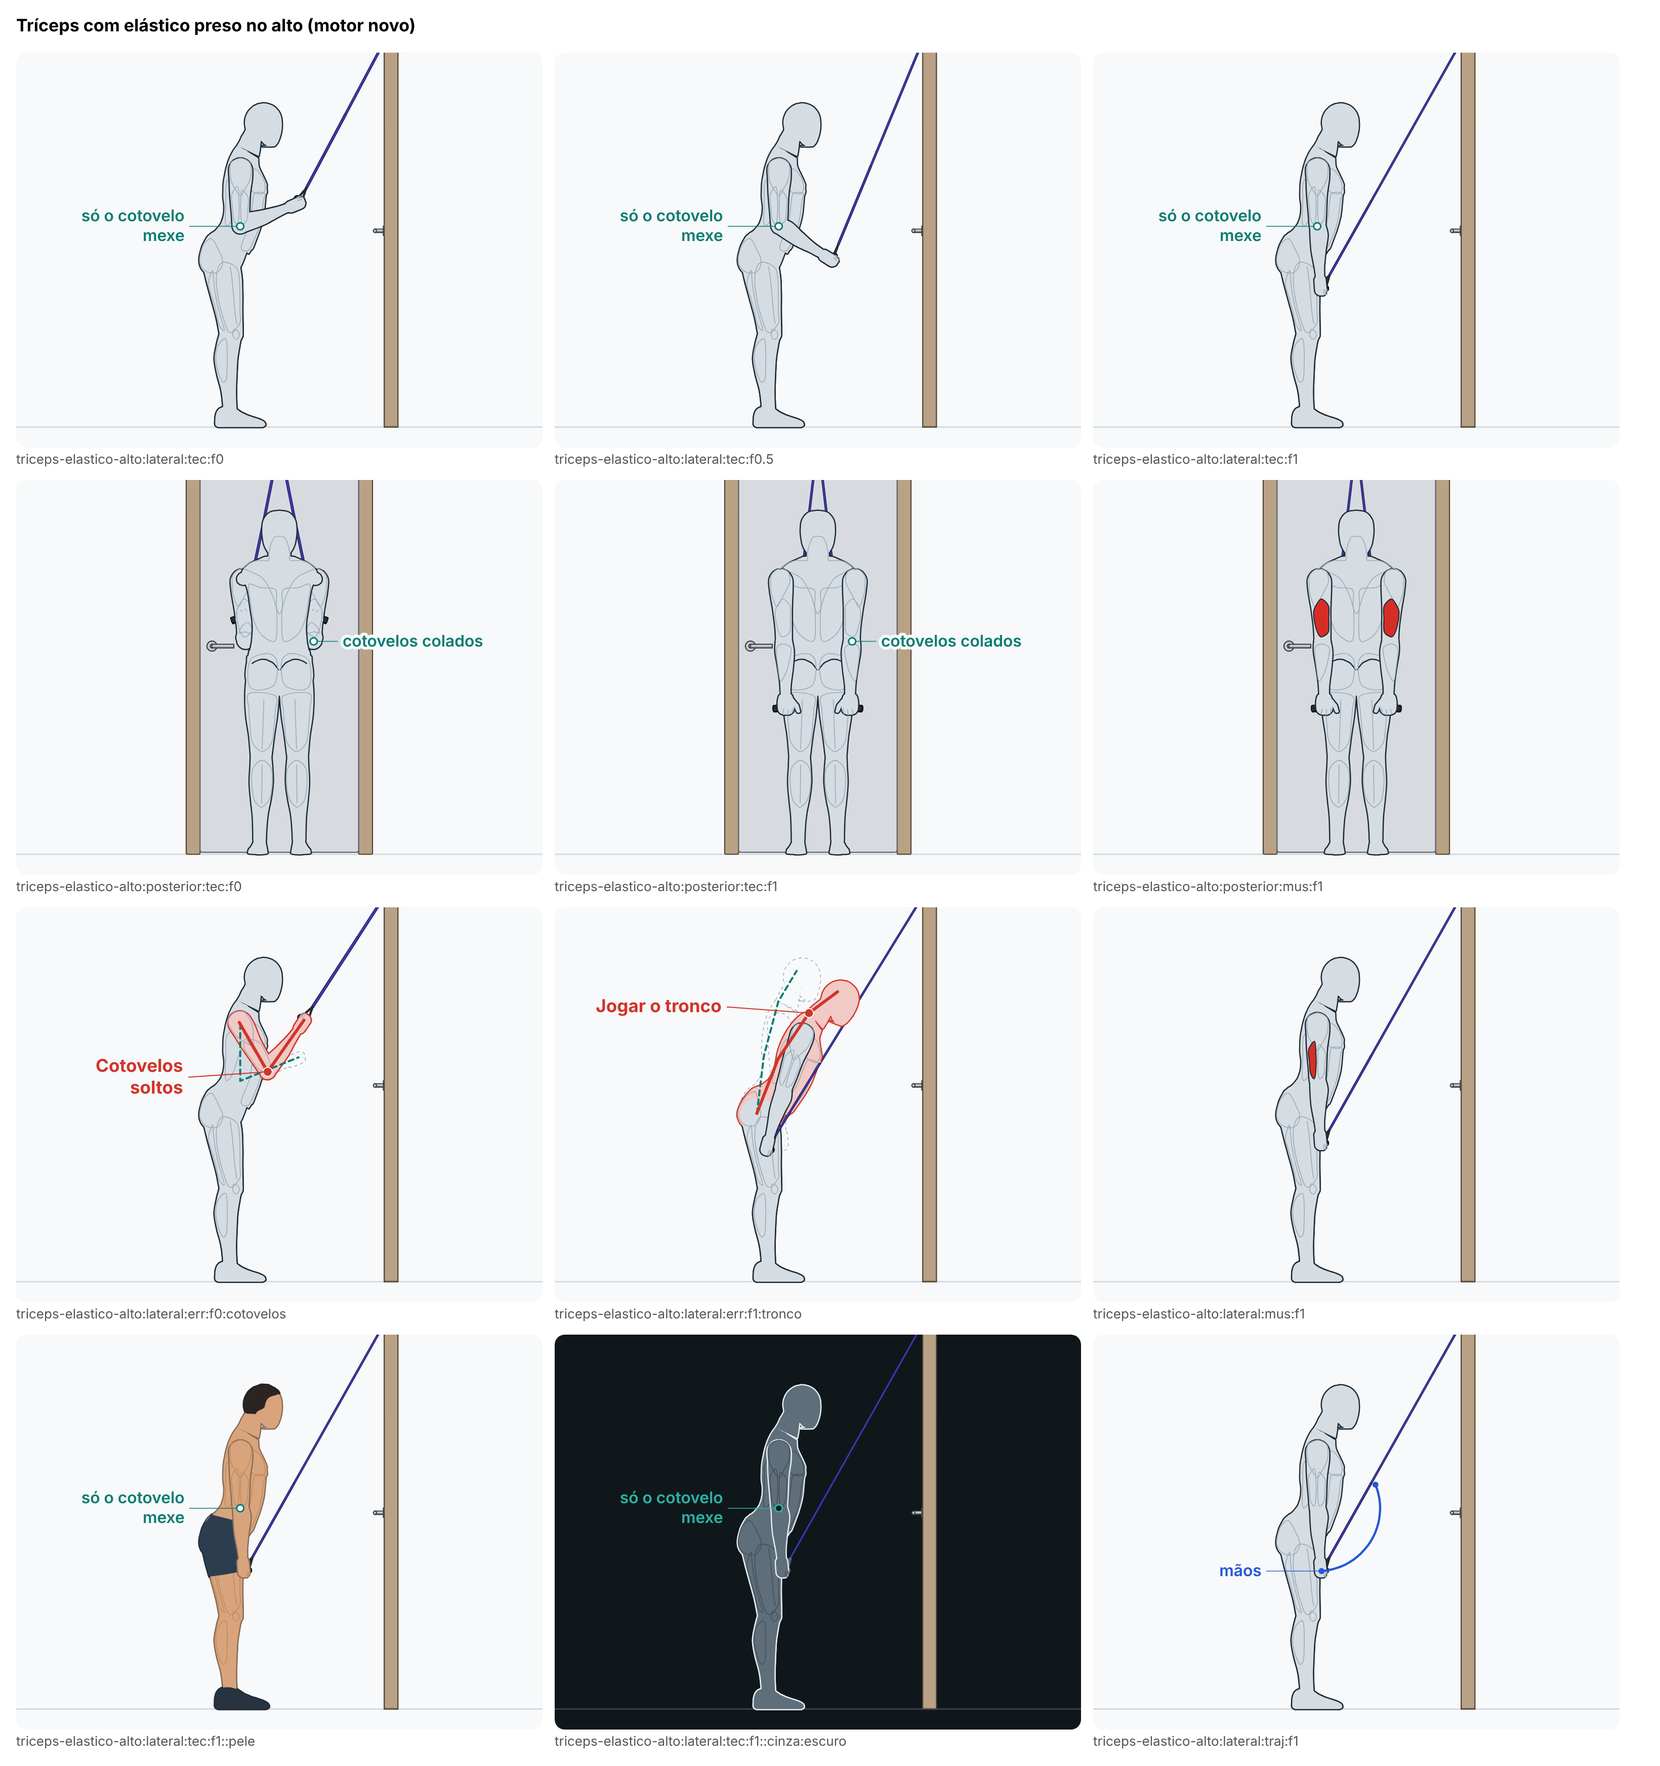
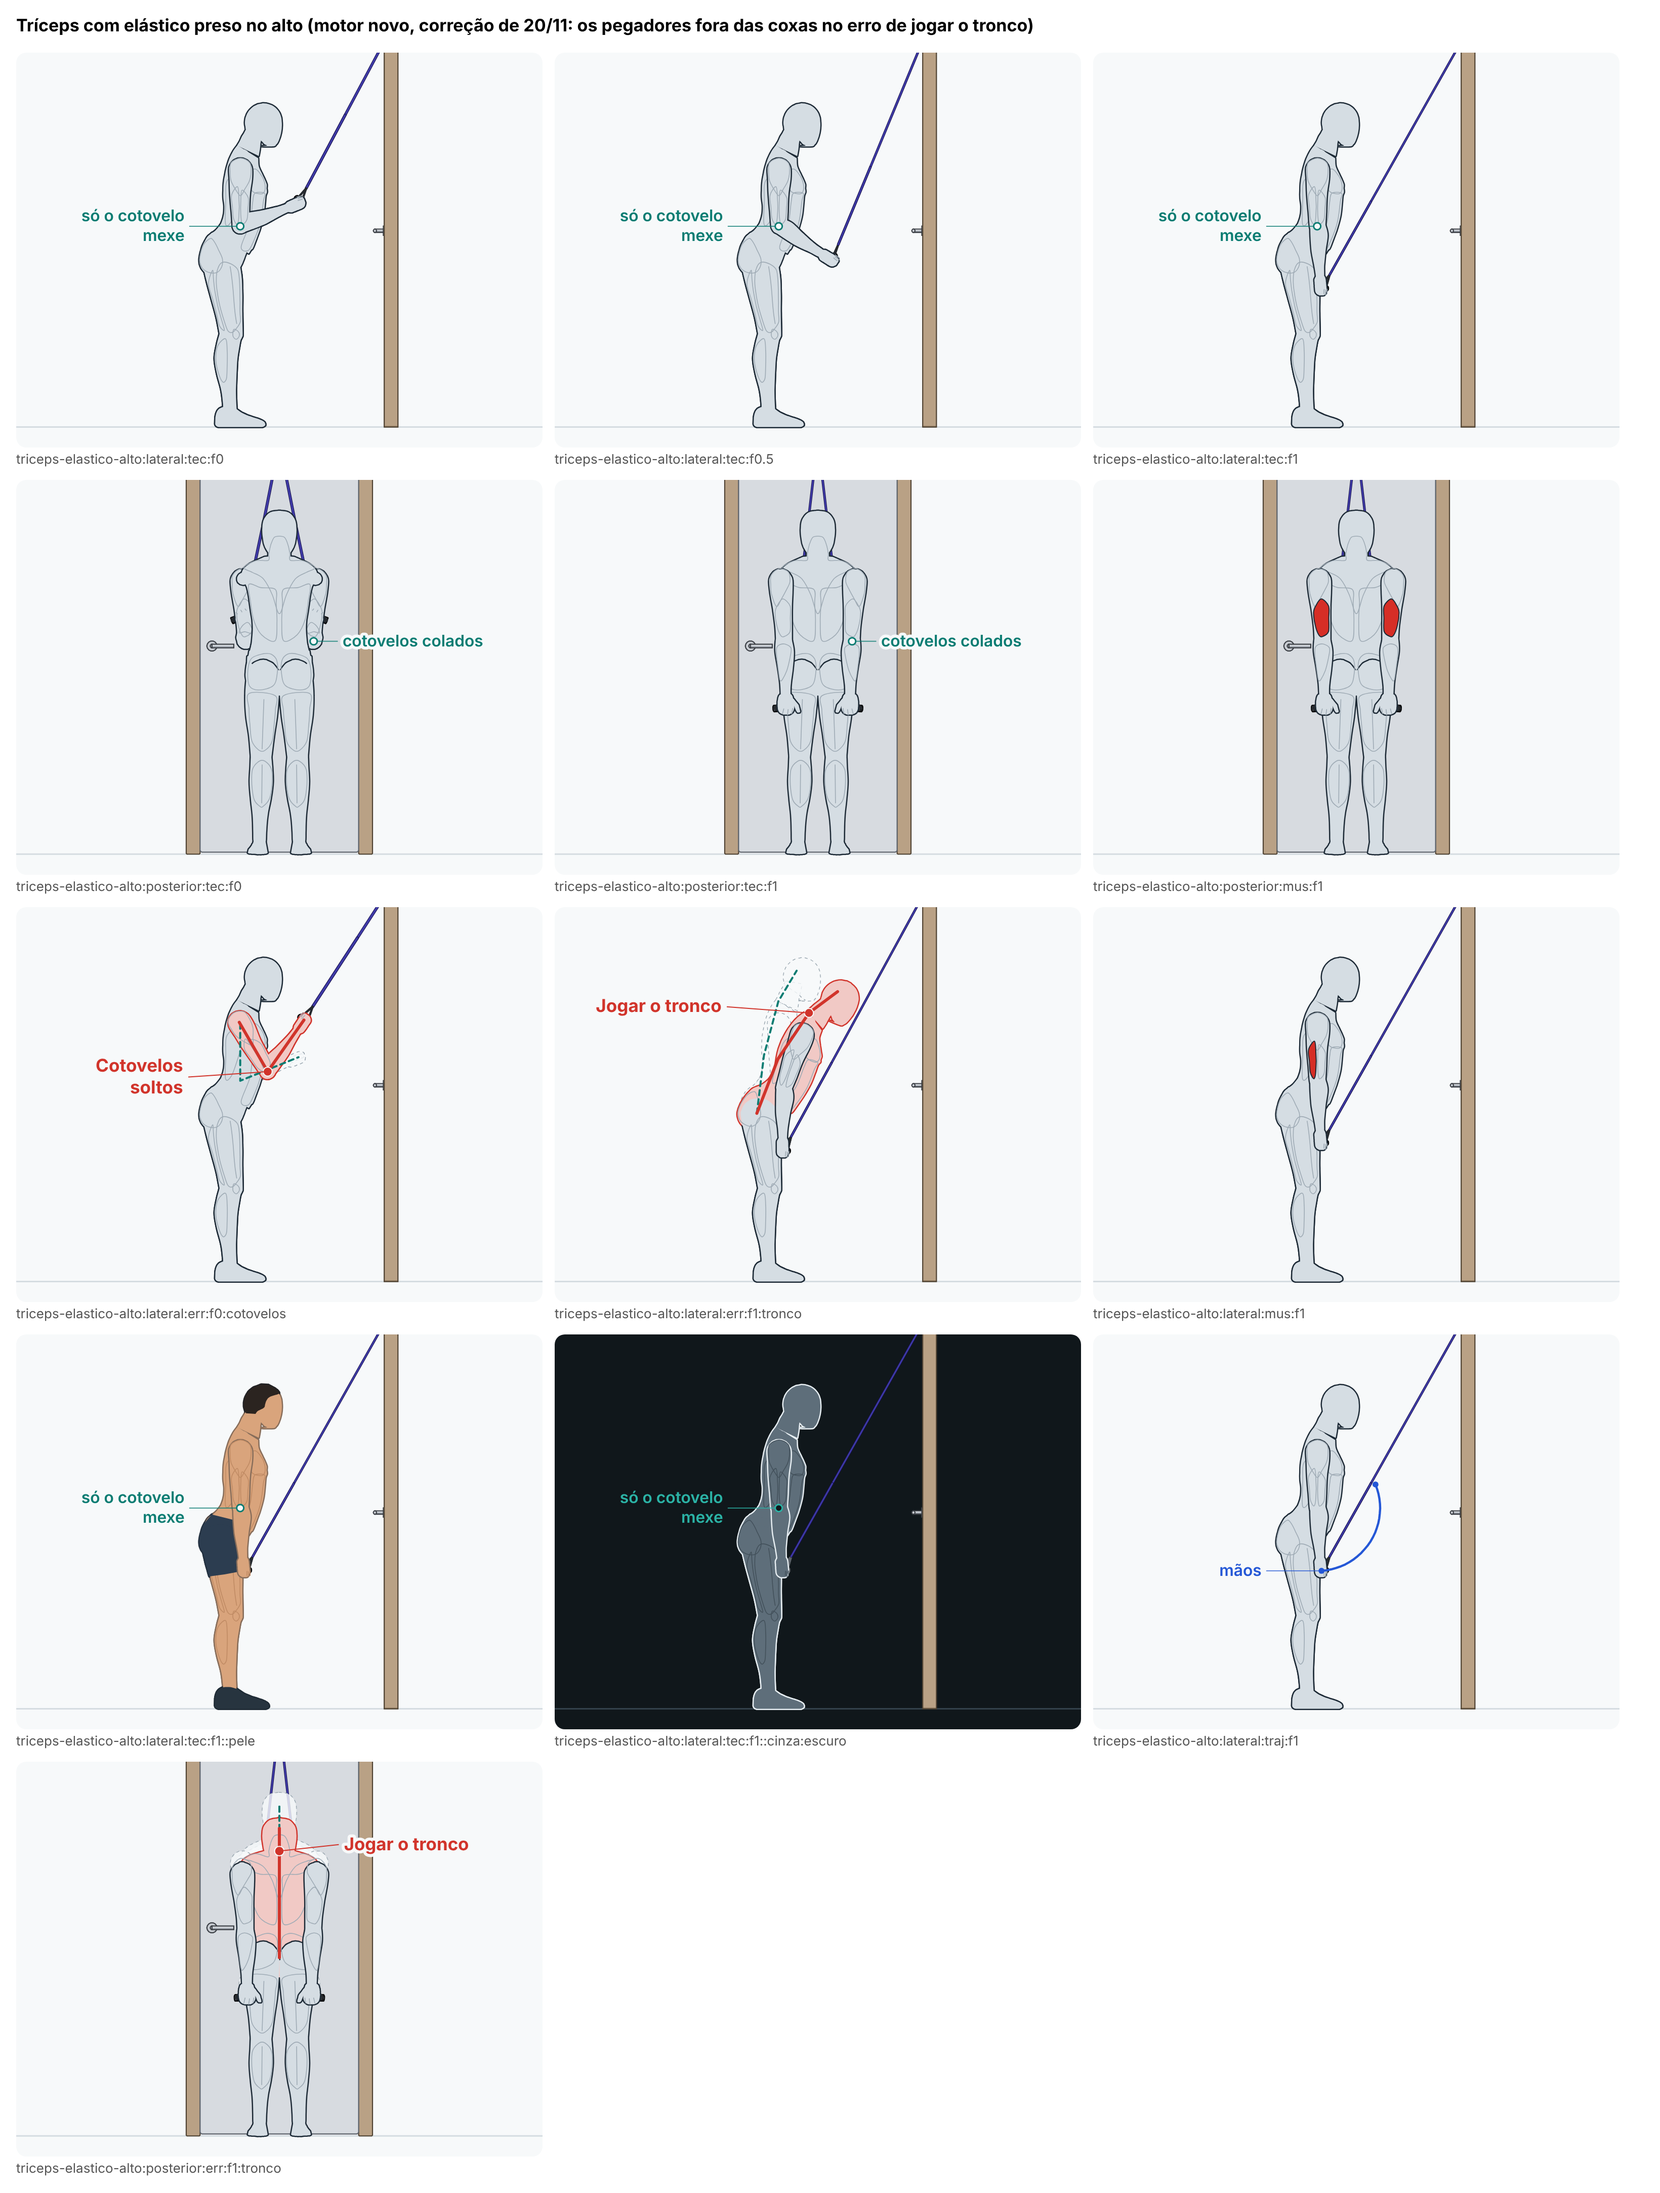
Tira os pegadores de dentro das coxas no erro de jogar o tronco do tríceps com elástico no alto
No fim do erro "Jogar o tronco", com o peito a 34° e o quadril parado, os
braços vão com o tronco e, com o cotovelo estendido do movimento certo,
os pegadores entravam 4,9 cm nas duas coxas. Nesse erro, embaixo, o
cotovelo dobra o que os pegadores precisam para ficar à mesma folga das
coxas que no movimento certo: 18,9°, calibrado e guardado no preparo. O
tronco e a amplitude do erro não mudam; a pintura de trás desse erro
(o elástico por cima do tronco) também some. A ficha liga
cabos-fora-do-corpo-nos-erros.

Claude-Session: https://claude.ai/code/session_01YRzts8DBGbsca9onebcMt1

diff --git a/src/engine/novo/exercicios/triceps-elastico-alto.ts b/src/engine/novo/exercicios/triceps-elastico-alto.ts
@@ -10,6 +10,7 @@
 //  - o tubo vai reto de cada pegador até a alça da âncora; a porta fica onde, em cima, o tubo sobe a `cabo.inclinacao`
 //    graus da vertical, como o cabo do tríceps na polia. A porta, a âncora e o trecho do tubo perto delas são cenário.
 import ficha from '../dados/movimentos/triceps-elastico-alto.json';
+import { calibragem } from '../calibragens';
 import { LADOS, sinal } from '../esqueleto';
 import type { Esq, Lado, PoseBraco, Tronco } from '../esqueleto';
 import { daFicha, fichaSchema, resolver1, suave } from '../movimento';
@@ -22,6 +23,8 @@ import type { Corpo } from '../tabelas';
 import { obj } from '../tabelas';
 import { add, dirRef, mix, mul, norm, perp, sub } from '../vec';
 import type { V3 } from '../vec';
+import { folgaDasPernas } from './dobrar-o-quadril';
+import type { Esfera } from './dobrar-o-quadril';
 import { comprimento } from './elastico-faixa';
 import { equilibrar, montarEmPe, polegarDaPegada } from './polia-bracos';
 import type { PedidoEmPe, PelveParada } from './polia-bracos';
@@ -49,12 +52,13 @@ function braco(t: Tronco, k: Lado, frente: number, cotovelo: number): PoseBraco 
 }
 
 /** O corpo no instante u: os pés lado a lado (a bola de cada pé à frente do tornozelo, como no face pull com elástico aprovado). */
-function pedido(corpo: Corpo, u: number, erro?: string): PedidoEmPe {
+function pedido(corpo: Corpo, u: number, erro?: string, cotTronco?: number): PedidoEmPe {
   const w = f('pes.meiaDistancia'),
     z = corpo.m('pe.calcanharABola') - corpo.m('pe.calcanharAoTornozelo');
   // no erro dos cotovelos, em cima o braço vai à frente e volta ao lado do tronco enquanto as mãos descem
   const frente = erro === 'cotovelos' ? mix(f('erro.cotovelo.frente'), f('braco.frente'), suave(u)) : f('braco.frente');
-  const cotovelo = mix(erro === 'cotovelos' ? f('erro.cotovelo.cotovelo') : f('cotovelo.alto'), f('cotovelo.baixo'), u);
+  const baixo = erro === 'tronco' && cotTronco !== undefined ? cotTronco : f('cotovelo.baixo');
+  const cotovelo = mix(erro === 'cotovelos' ? f('erro.cotovelo.cotovelo') : f('cotovelo.alto'), baixo, u);
   return {
     pes: { R: { bola: [-w, 0, z] }, L: { bola: [w, 0, z] } },
     joelho: f('joelho'),
@@ -111,9 +115,38 @@ function tuboAteAPorta(pts: V3[], estica: number): PecaPropria {
   };
 }
 
+/** Os pegadores nas duas mãos como filas de esferas, de uma ponta da pegada à outra (para a folga até as pernas). */
+function esferasDosPegadores(e: Esq): Esfera[] {
+  const L = obj('elastico', 'pegadorComp') / 2,
+    r = obj('elastico', 'pegadorDiam') / 2;
+  return LADOS.flatMap((k) => {
+    const u = norm(e.lado[k].mao.x);
+    return Array.from({ length: 9 }, (_, i) => ({ c: add(e.lado[k].pegada, mul(u, -L + (2 * L * i) / 8)), r }));
+  });
+}
+
+/**
+ * Correção de 20/11/2026: no erro "Jogar o tronco", o peito dobra a 34° com o quadril parado; os braços vão com o
+ * tronco e, com o cotovelo do movimento certo embaixo (estendido), os pegadores entravam 4,9 cm nas coxas. Embaixo,
+ * nesse erro, o cotovelo dobra o que os pegadores precisam para ficar à mesma folga das coxas que no movimento certo:
+ * quem dobra o corpo para empurrar não termina de estender os cotovelos.
+ */
+function cotoveloEmbaixoNoTronco(corpo: Corpo): number {
+  return calibragem(corpo, 'triceps-elastico-alto:tronco-embaixo', () => {
+    const c = calibrar(corpo);
+    const certo = montarEmPe(corpo, pedido(corpo, 1), c.pelve);
+    const alvo = folgaDasPernas(certo, esferasDosPegadores(certo));
+    const folga = (cot: number) => {
+      const e = montarEmPe(corpo, pedido(corpo, 1, 'tronco', cot), c.pelve);
+      return folgaDasPernas(e, esferasDosPegadores(e)) - alvo;
+    };
+    return folga(f('cotovelo.baixo')) >= 0 ? f('cotovelo.baixo') : resolver1(folga, f('cotovelo.baixo'), 90, 30);
+  });
+}
+
 function quadro(corpo: Corpo, u: number, erro?: string): Quadro {
   const c = calibrar(corpo);
-  const e = montarEmPe(corpo, pedido(corpo, u, erro), c.pelve);
+  const e = montarEmPe(corpo, pedido(corpo, u, erro, erro === 'tronco' ? cotoveloEmbaixoNoTronco(corpo) : undefined), c.pelve);
   const porta = portaEm(c.zPorta);
   const t = tubo(e, porta.alca);
   const estica = t.comp / obj('elastico', 'comp');

diff --git a/docs/revisoes/animacao-nova/lote-A2/triceps-elastico-alto.md b/docs/revisoes/animacao-nova/lote-A2/triceps-elastico-alto.md
@@ -65,3 +65,23 @@ Não há correção registrada para este exercício em `correcoes-ja-feitas.md`.
 ## Risco de o Gustavo não gostar
 
 **Baixo.** É o tríceps na polia aprovado com a âncora da puxada com elástico aprovada; a técnica confere em tudo e as duas vistas se leem. O ponto mais fraco é o pegador pouco visível de lado.
+
+## Correção de 20/11 (fio ou peso dentro do corpo)
+
+A conferência dos fios (`conferir-pintura.ts`, tolerância de 1 cm) acusava **os pegadores 4,9 cm dentro das duas coxas** no fim do erro "Jogar o tronco" (u = 1).
+
+**A causa, medida.** No erro, o peito dobra a 34° (no certo, 15°) com o quadril parado; os braços ficam colados ao tronco e vão com ele. Com o cotovelo do movimento certo embaixo (4°, estendido), as mãos ficavam 8,5 cm atrás de onde ficam no certo, e as pontas dos pegadores (a fita que dá a volta na pegada, a 6 cm do centro da mão) entravam nas coxas.
+
+**A mudança.** Nesse erro, embaixo, o cotovelo dobra o que os pegadores precisam para ficar à mesma folga das coxas que no movimento certo: 18,9°, calibrado e guardado no preparo (`triceps-elastico-alto:tronco-embaixo`); as mãos terminam onde terminam no certo. Daí para cima ele dobra como antes. É o que o cartão descreve ("o corpo dobra para empurrar"): quem dobra o corpo não termina de estender os cotovelos. O tronco (34°), o começo do erro, o ciclo e o outro erro não mudam; a amplitude do erro não diminuiu.
+
+| medido (homem) | antes | depois |
+|---|---|---|
+| os pegadores dentro das coxas (conferência dos fios; erro "Jogar o tronco", u = 1) | 4,9 cm (as duas) | 0 (nada além da tolerância) |
+| cotovelo embaixo, no erro | 4° | 18,9° |
+| o elástico até a pele, regra `cabos-fora-do-corpo-nos-erros`, nesse erro | 0,6 cm | 2,4 cm |
+| pintura (de trás, o elástico por cima do tronco, da cintura e da bacia, nesse erro) | 3 achados, 41,9 cm² | nenhum |
+
+A ficha liga `cabos-fora-do-corpo-nos-erros`. Ela passa no estado de antes e no de agora: mede o tubo, que é um fio da conferência, e não os pegadores, que são só desenho; quem via os pegadores nas coxas era a conferência dos fios (na pintura), que falhava antes e passa agora. A `peso-fora-do-corpo` não se aplica (não há peso livre). O antes e depois está em `../correcao-das-antigas/triceps-elastico-alto-fio-ou-peso.png`; os quadros grandes foram regravados, com o erro também de trás (`posterior:err:f1:tronco`), e olhados nas duas vistas, nos dois lados do corpo. A conferência automática dá **0 falha e 3 avisos** (antes: 2 falhas, a de fios e a de pintura, e 3 avisos).
+
+**O que ainda não ficou bom.**
+- No fim do erro, o cotovelo fica dobrado 19° (no certo, 4°): lê-se como "não estendeu", junto do tronco dobrado; não é algo que o cartão descreva em número.
